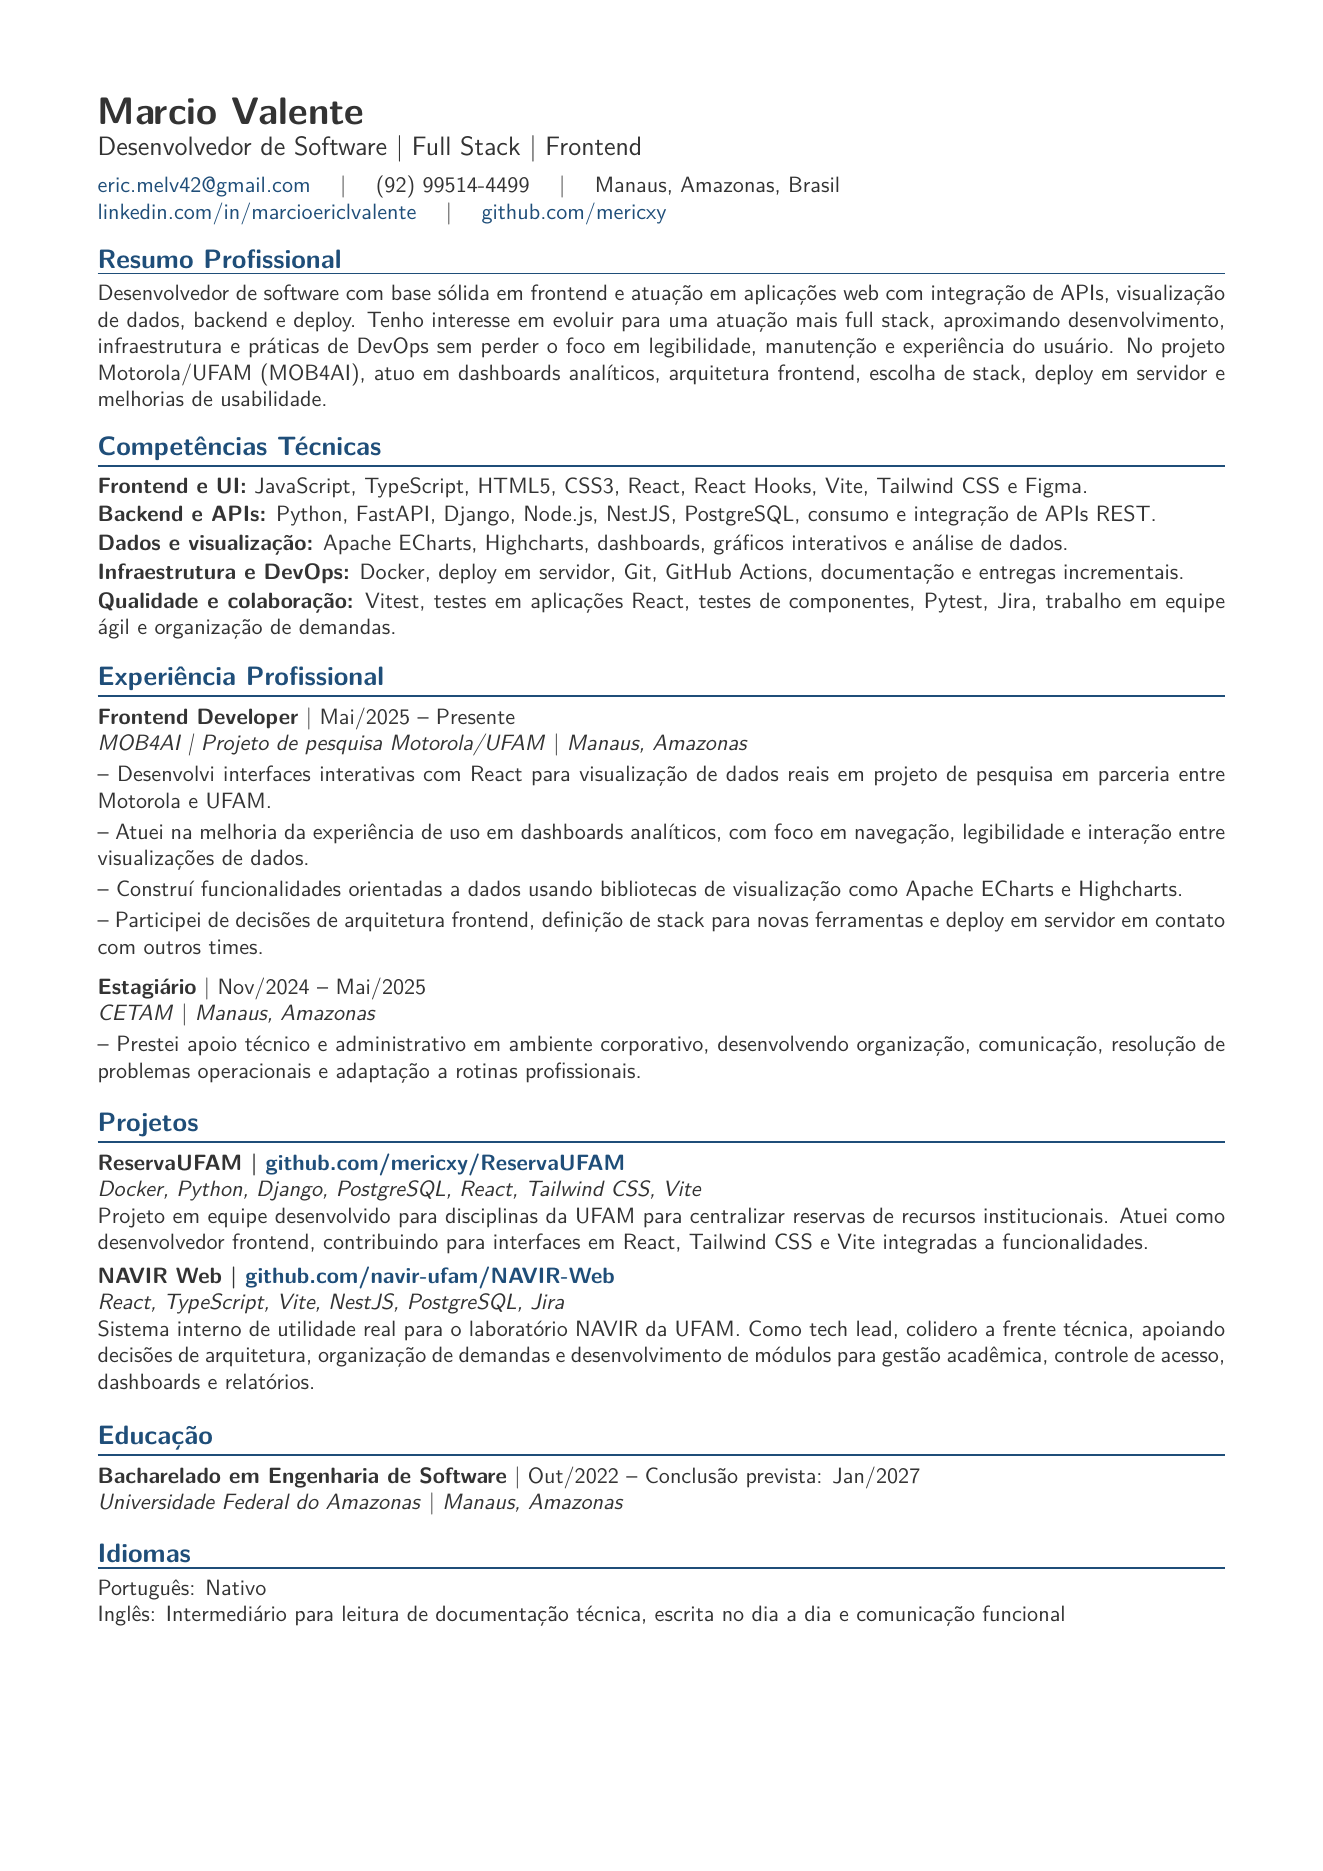
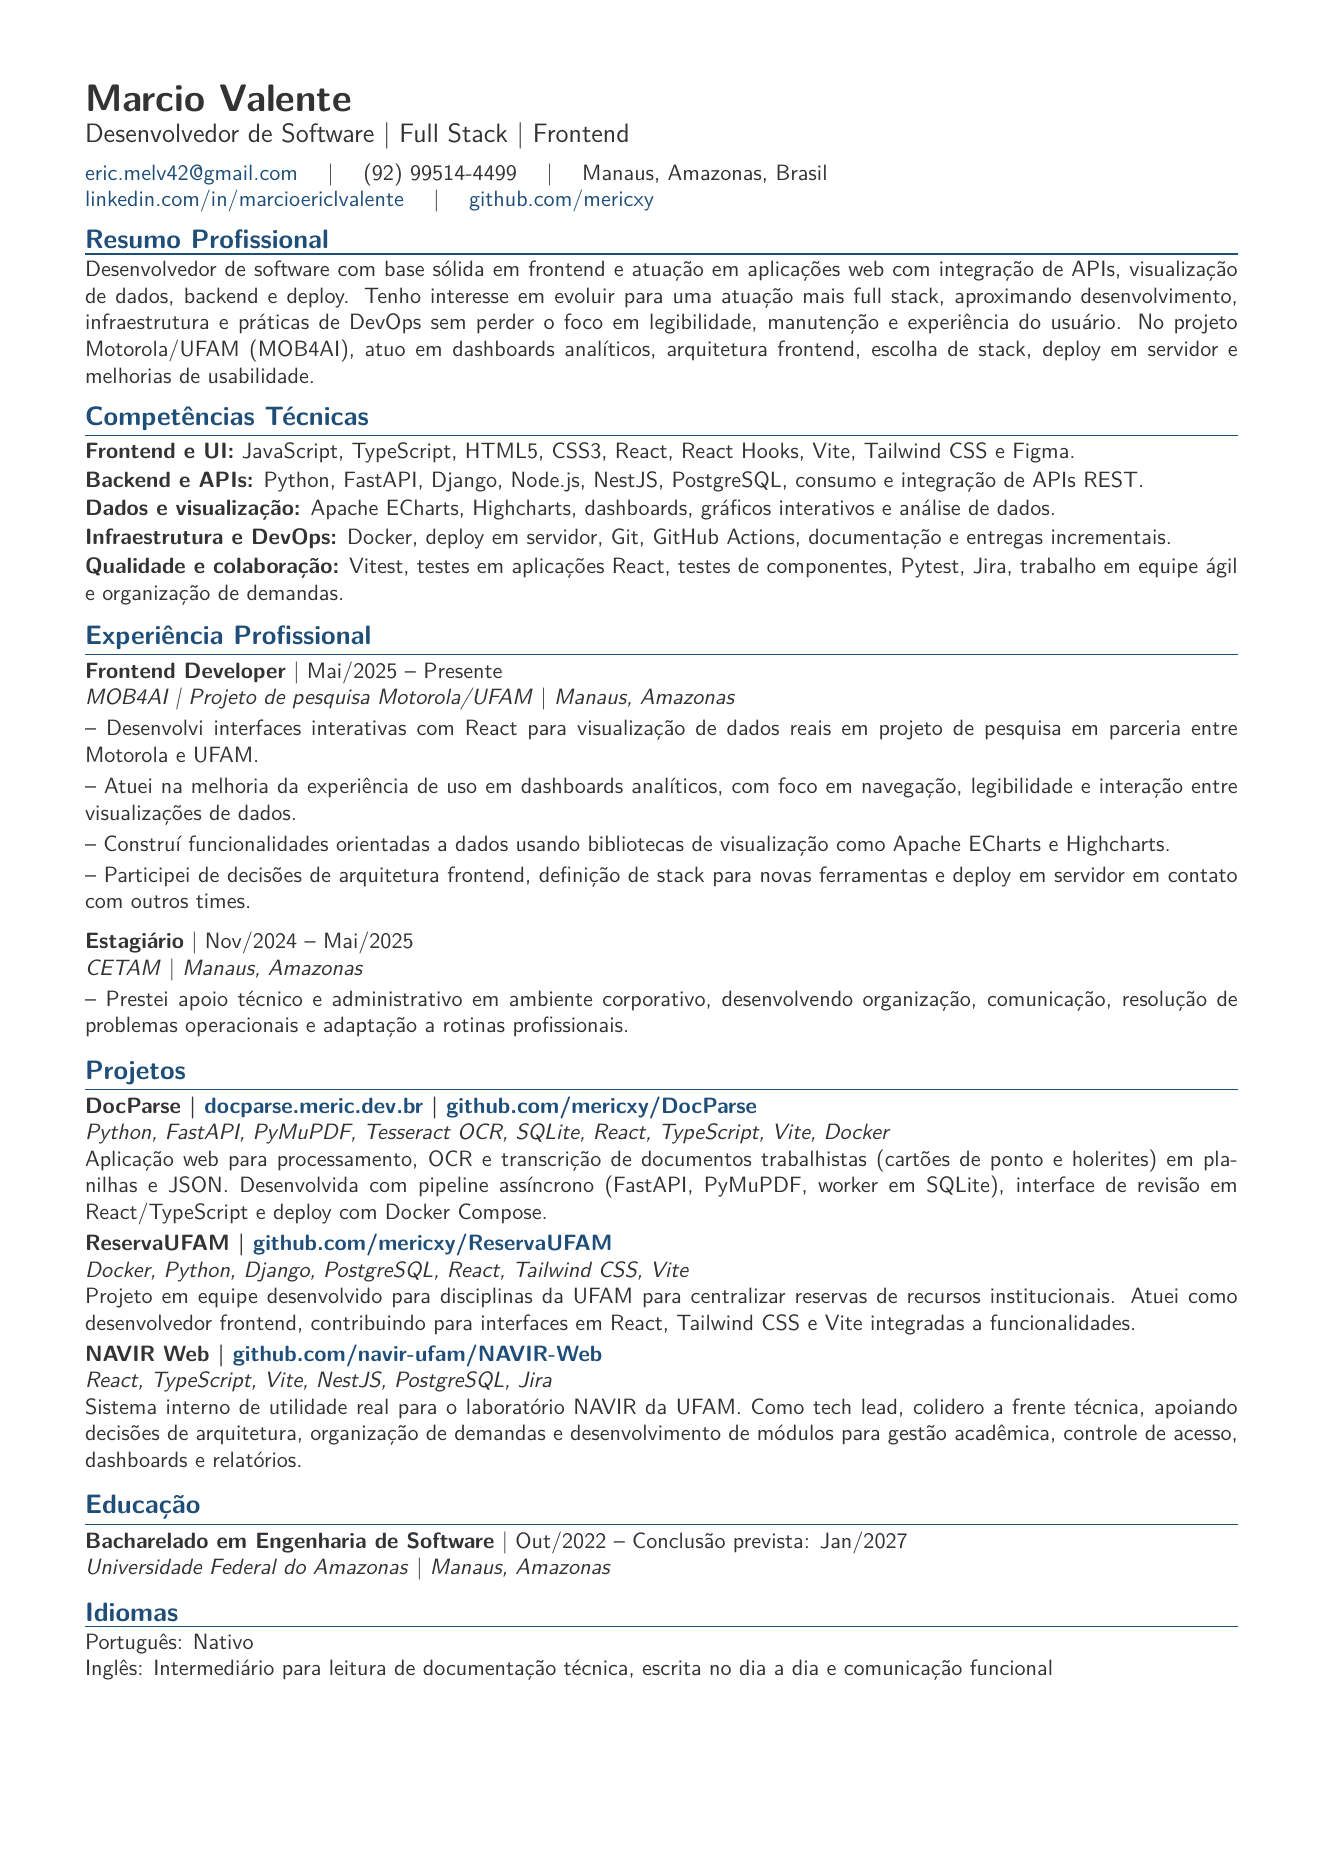
Add DocParse project to resumes

Changed region(s): [[0.062, 0.031, 0.9297, 0.899], [0.5578, 0.527, 0.8367, 0.558], [0.8677, 0.527, 0.9297, 0.558]]

diff --git a/curriculo.tex b/curriculo.tex
@@ -24,6 +24,8 @@
 \achievement{Prestei apoio técnico e administrativo em ambiente corporativo, desenvolvendo organização, comunicação, resolução de problemas operacionais e adaptação a rotinas profissionais.}
 
 \sectiontitle{Projetos}
+\project{DocParse | \href{\detokenize{https://docparse.meric.dev.br/}}{docparse.meric.dev.br} | \href{\detokenize{https://github.com/mericxy/DocParse}}{github.com/mericxy/DocParse}}{Python, FastAPI, PyMuPDF, Tesseract OCR, SQLite, React, TypeScript, Vite, Docker}{Aplicação web para processamento, OCR e transcrição de documentos trabalhistas (cartões de ponto e holerites) em planilhas e JSON. Desenvolvida com pipeline assíncrono (FastAPI, PyMuPDF, worker em SQLite), interface de revisão em React/TypeScript e deploy com Docker Compose.}
+
 \project{ReservaUFAM | \href{\detokenize{https://github.com/mericxy/ReservaUFAM}}{github.com/mericxy/ReservaUFAM}}{Docker, Python, Django, PostgreSQL, React, Tailwind CSS, Vite}{Projeto em equipe desenvolvido para disciplinas da UFAM para centralizar reservas de recursos institucionais. Atuei como desenvolvedor frontend, contribuindo para interfaces em React, Tailwind CSS e Vite integradas a funcionalidades.}
 
 \project{NAVIR Web | \href{\detokenize{https://github.com/navir-ufam/NAVIR-Web}}{github.com/navir-ufam/NAVIR-Web}}{React, TypeScript, Vite, NestJS, PostgreSQL, Jira}{Sistema interno de utilidade real para o laboratório NAVIR da UFAM. Como tech lead, colidero a frente técnica, apoiando decisões de arquitetura, organização de demandas e desenvolvimento de módulos para gestão acadêmica, controle de acesso, dashboards e relatórios.}

diff --git a/curriculo-geral.tex b/curriculo-geral.tex
@@ -23,6 +23,8 @@
 \achievement{Prestei apoio técnico e administrativo em ambiente corporativo, desenvolvendo organização, comunicação, resolução de problemas operacionais e adaptação a rotinas profissionais.}
 
 \sectiontitle{Projetos}
+\project{DocParse | \href{\detokenize{https://docparse.meric.dev.br/}}{docparse.meric.dev.br} | \href{\detokenize{https://github.com/mericxy/DocParse}}{github.com/mericxy/DocParse}}{Processamento e transcrição de documentos | Full Stack e OCR}{Aplicação web para leitura, OCR e extração estruturada de dados de cartões de ponto e holerites em PDF para planilhas. Inclui processamento assíncrono em Python, interface de conferência em React e deploy conteinerizado com Docker.}
+
 \project{ReservaUFAM | \href{\detokenize{https://github.com/mericxy/ReservaUFAM}}{github.com/mericxy/ReservaUFAM}}{Sistema de reservas institucionais | Projeto em equipe}{Projeto desenvolvido para disciplinas da UFAM com o objetivo de centralizar reservas de recursos institucionais. Atuei na construção das interfaces e na integração das funcionalidades do sistema.}
 
 \project{NAVIR Web | \href{\detokenize{https://github.com/navir-ufam/NAVIR-Web}}{github.com/navir-ufam/NAVIR-Web}}{Sistema de gestão acadêmica | Liderança técnica}{Sistema interno do laboratório NAVIR da UFAM. Como tech lead, colidero a frente técnica, apoiando decisões de arquitetura, organização de demandas e desenvolvimento de módulos para gestão acadêmica, controle de acesso, dashboards e relatórios.}

diff --git a/main.tex b/main.tex
@@ -6,7 +6,7 @@
 \usepackage[utf8]{inputenc}
 \usepackage[T1]{fontenc}
 \usepackage[brazilian]{babel}
-\usepackage[a4paper,margin=1.55cm]{geometry}
+\usepackage[a4paper,margin=1.35cm]{geometry}
 \usepackage{lmodern}
 \usepackage{xcolor}
 \usepackage{hyperref}
@@ -27,11 +27,11 @@
 \color{textgray}
 
 \newcommand{\sectiontitle}[1]{%
-  \vspace{10pt}
+  \vspace{7pt}
   {\large\bfseries\color{accent} #1}\par
   \vspace{2pt}
   {\color{accent}\hrule height 0.7pt}
-  \vspace{5pt}
+  \vspace{3pt}
 }
 
 \newcommand{\role}[4]{%
@@ -44,7 +44,7 @@
   \textbf{#1}\par
   \textit{#2}\par
   #3\par
-  \vspace{3pt}
+  \vspace{2pt}
 }
 
 \newcommand{\achievement}[1]{-- #1\par\vspace{2pt}}
